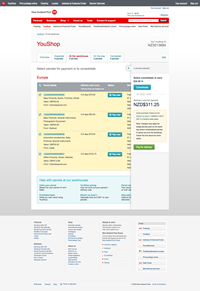
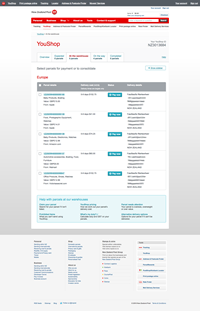
YouShop project text and screenshots added

diff --git a/src/pages/YouShop.js b/src/pages/YouShop.js
@@ -10,10 +10,23 @@ class YouShop extends Component {
 	    	<main id={"project-" + project} role="main" className="main project">
 	    		<div className="main-inner">
 	    			<ProjectHeading item={project} title="YouShop Consolidation" org="New Zealand Post" dates="August to December 2014" desc="Building an interface to allow users to consolidate multiple YouShop parcels." />
-	    			<p>(Coming Soon)</p>
-	 				<h2>Screenshot</h2>
+	    			<p>The YouShop service had been going for around two years when users expressed a desire to consolidate smaller parcels into one larger one to save shipping costs. Workshops developed a number of requirements for users, including the ability to:</p>
+	    			<ul>
+	    				<li>select and deselect parcels to see if consolidation would actually lead to savings</li>
+	    				<li>consolidate and separate parcels easily</li>
+	    				<li>pay for consolidated and non-consolidated parcels over multiple warehouses (YouShhop has two warehouses, US and UK)</li>
+	    			</ul>
+	    			<p>The functionality was built on top of Post's CMS, Drupal 6, and connected to Post's systems with APIs. The interactive parts were built using Angular 1, while the static parts were simply Drupal 6 PHP templates. My task was to build the UX to fit with YouShop's overall look and feel and make sure the user could get through the process without failing. This involved editing the template and angular files to output the correct HTML patterns and develop CSS to style it. I used the JavaScript animation library Velocity to handle the animations.</p>
+	    			<p>It should be noted that this functionality was built at a time before the main NZ Post site was converted to a responsive design. The decision was taken not to include YouShop in this conversion due to its complexity.</p>
+	 				<h2>Screenshots</h2>
+	 				<p>(Technical limitations of the development environment mean that only parcels from one warehouse - the UK one - can be shown.)</p>
 	    			<div className="screenshot-gallery grid">
-	    				<Modal project={project} page="landing" caption="YouShop Warehouses page: parcels chosen for consolidation" />
+	    				<Modal project={project} page="page-01" caption="YouShop warehouses page: parcels chosen for consolidation" />
+						<Modal project={project} page="page-02" caption="YouShop warehouses page: parcels consolidated" />
+						<Modal project={project} page="page-03" caption="YouShop warehouses page: parcels consolidated with the sidebar animated away" />
+						<Modal project={project} page="page-04" caption="YouShop review parcels before checking out" />
+						<Modal project={project} page="page-05" caption="YouShop payment page" />
+						<Modal project={project} page="page-06" caption="YouShop warehouses page: showing parcels that have been paid for but not yet dispatched as well as not paid for yet" />
 					</div>
 	    		</div>
 	    	</main>

diff --git a/src/components/Header.js b/src/components/Header.js
@@ -1,5 +1,4 @@
 import React, { Component } from 'react';
-import '../App/App.css';
 
 import { NavLink } from 'react-router-dom';
 
